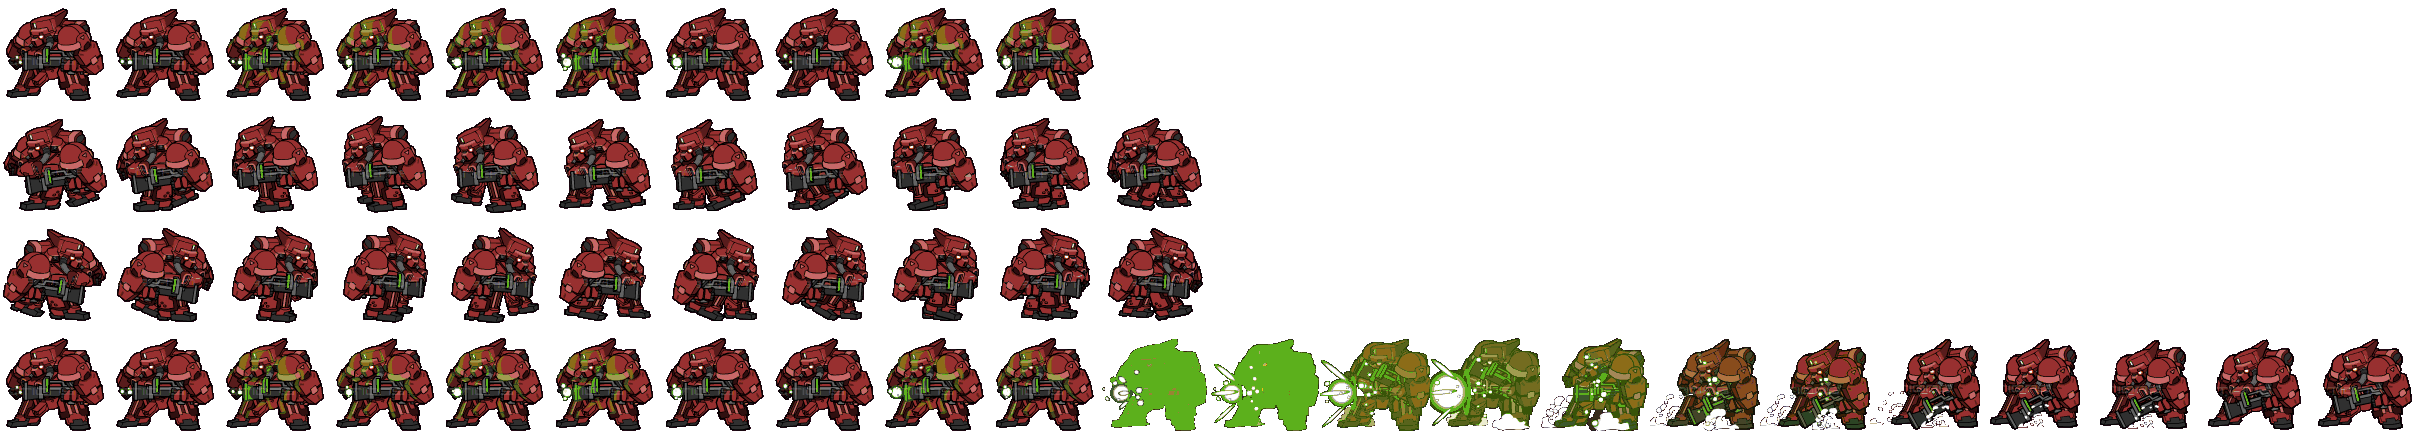
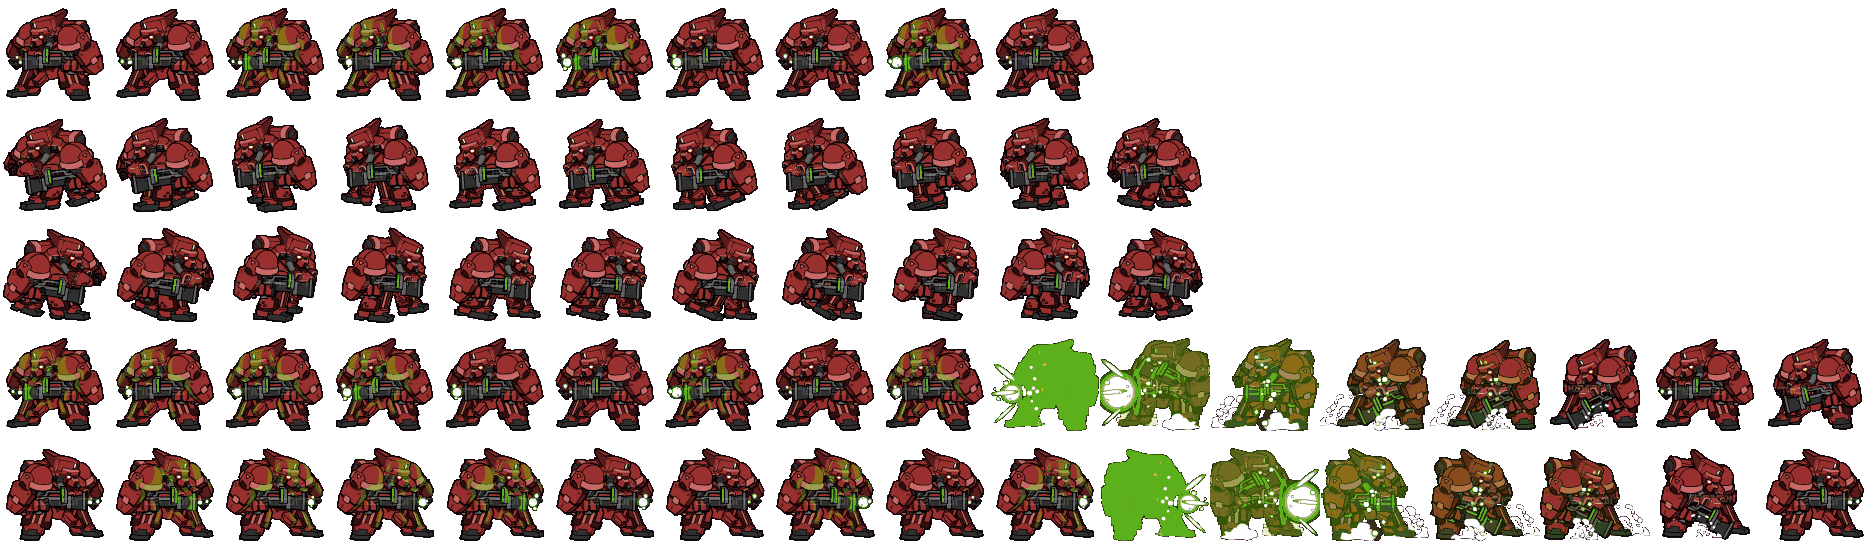
Enemy3 Sprite fixed (he can look right now)

diff --git a/App/Source/Scene2D/Enemy3.cpp b/App/Source/Scene2D/Enemy3.cpp
@@ -142,13 +142,14 @@ bool CEnemy3::Init(void)
 
 
 	cInventoryManager = CInventoryManager::GetInstance();
-	animatedSprites = CMeshBuilder::GenerateSpriteAnimation(4, 22,
+	animatedSprites = CMeshBuilder::GenerateSpriteAnimation(5, 17,
 		cSettings->TILE_WIDTH, cSettings->TILE_HEIGHT);
 
 	animatedSprites->AddAnimation("idle", 0, 9);
-	animatedSprites->AddAnimation("left", 22, 32);
-	animatedSprites->AddAnimation("right", 44, 54);
-	animatedSprites->AddAnimation("attack", 66, 87);
+	animatedSprites->AddAnimation("left", 17, 27);
+	animatedSprites->AddAnimation("right", 34, 44);
+	animatedSprites->AddAnimation("attack", 51, 67);
+	animatedSprites->AddAnimation("attackRight", 68, 84);
 	//CS: Play the "idle animation as default
 	animatedSprites->PlayAnimation("idle", -1, 1.0f);
 
@@ -273,7 +274,10 @@ void CEnemy3::Update(const double dElapsedTime)
 	case SHOOT:
 		if ((cPhysics2D.CalculateDistance(i32vec2Index, cPlayer2D->i32vec2Index) < 8.0f) && this->i32vec2Index.y == cPlayer2D->i32vec2Index.y)
 		{
-			animatedSprites->PlayAnimation("attack", -1, 1.0f);
+			if(cPlayer2D->i32vec2Index.x > this->i32vec2Index.x)
+				animatedSprites->PlayAnimation("attackRight", -1, 1.0f);
+			else
+				animatedSprites->PlayAnimation("attack", -1, 1.0f);
 			Shoot(i32vec2Index.y, i32vec2Index.x, dir);
 			if (Shoot(i32vec2Index.y, i32vec2Index.x, dir) == true)
 			{
